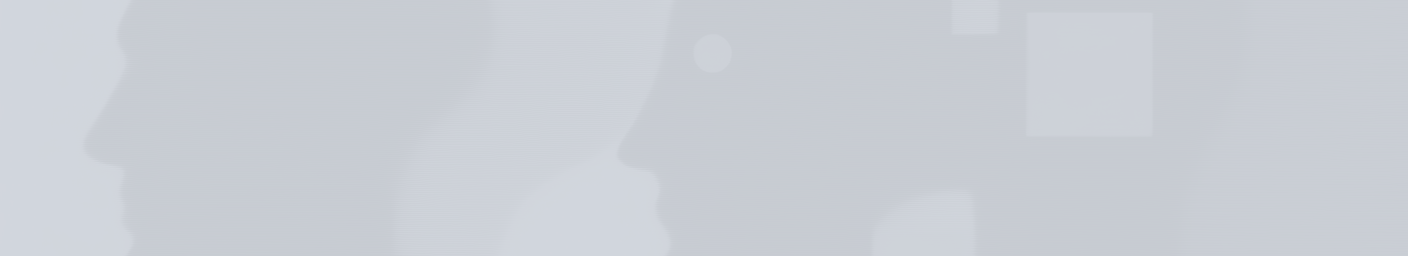
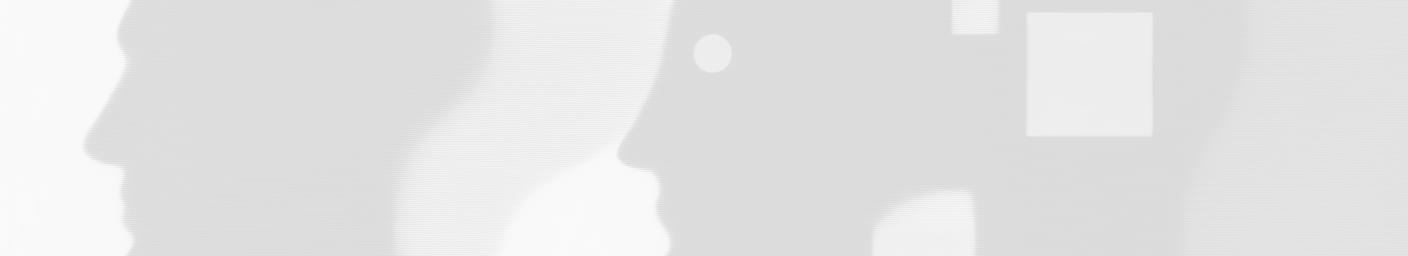
ok

diff --git a/assets/scss/custom.scss b/assets/scss/custom.scss
@@ -1,5 +1,5 @@
 .frontbanner {
-  opacity: 1;
+  opacity: 0.8;
   align-items: center;
   text-align: center;
   width: 100%;
